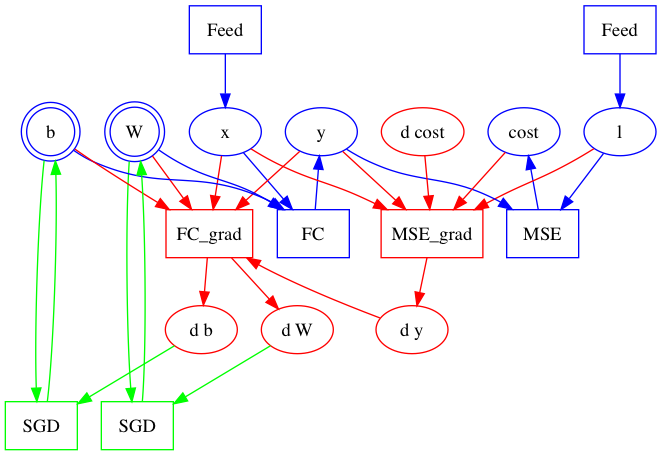
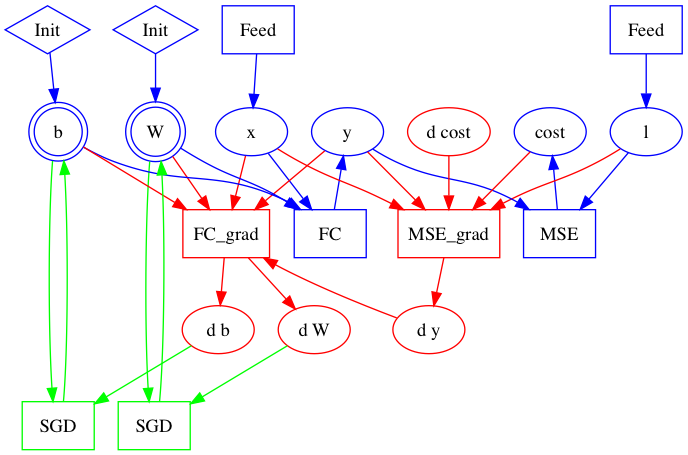
Add initialization operators

diff --git a/doc/design/graph.md b/doc/design/graph.md
@@ -25,7 +25,9 @@ The first four lines of above program build the forward part of the graph.
 
 ![](images/graph_construction_example_forward_only.png)
 
-In particular, the first line `x = layer.data("images")` creates variable x and a Feed operator that copies a column from the minibatch to x.  `y = layer.fc(x)` creates not only the FC operator and output variable y, but also two parameters, W and b.
+In particular, the first line `x = layer.data("images")` creates variable x and a Feed operator that copies a column from the minibatch to x.  `y = layer.fc(x)` creates not only the FC operator and output variable y, but also two parameters, W and b, and the initialization operators.
+
+Initialization operators are kind of "run-once" operators -- the `Run` method increments a class data member counter so to run at most once.  By doing so, a parameter wouldn't be initialized repeatedly, say, in every minibatch.
 
 In this example, all operators are created as `OpDesc` protobuf messages, and all variables are `VarDesc`.  These protobuf messages are saved in a `BlockDesc` protobuf message.
 
